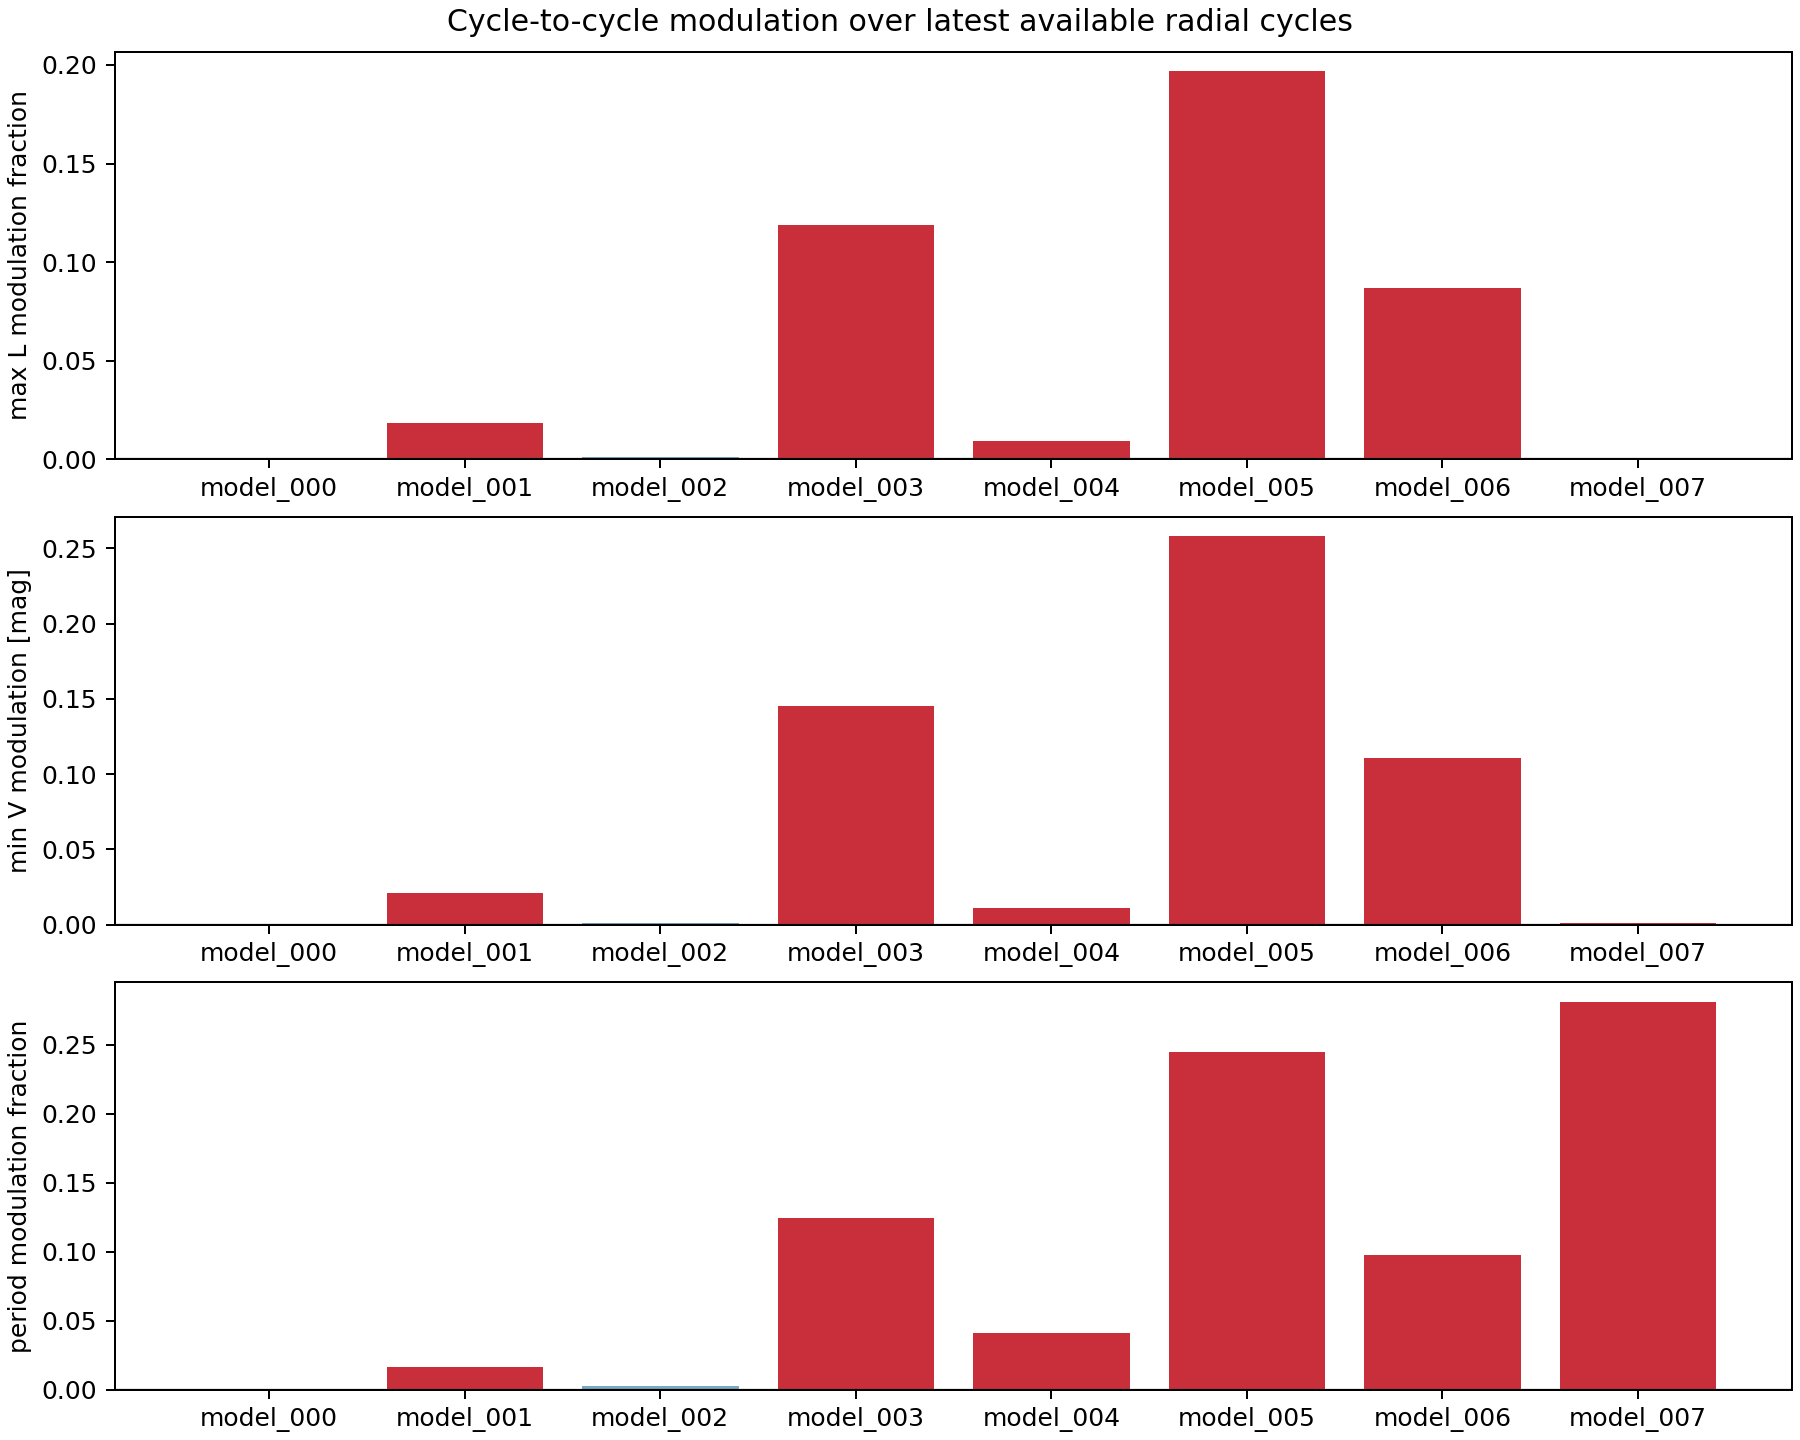
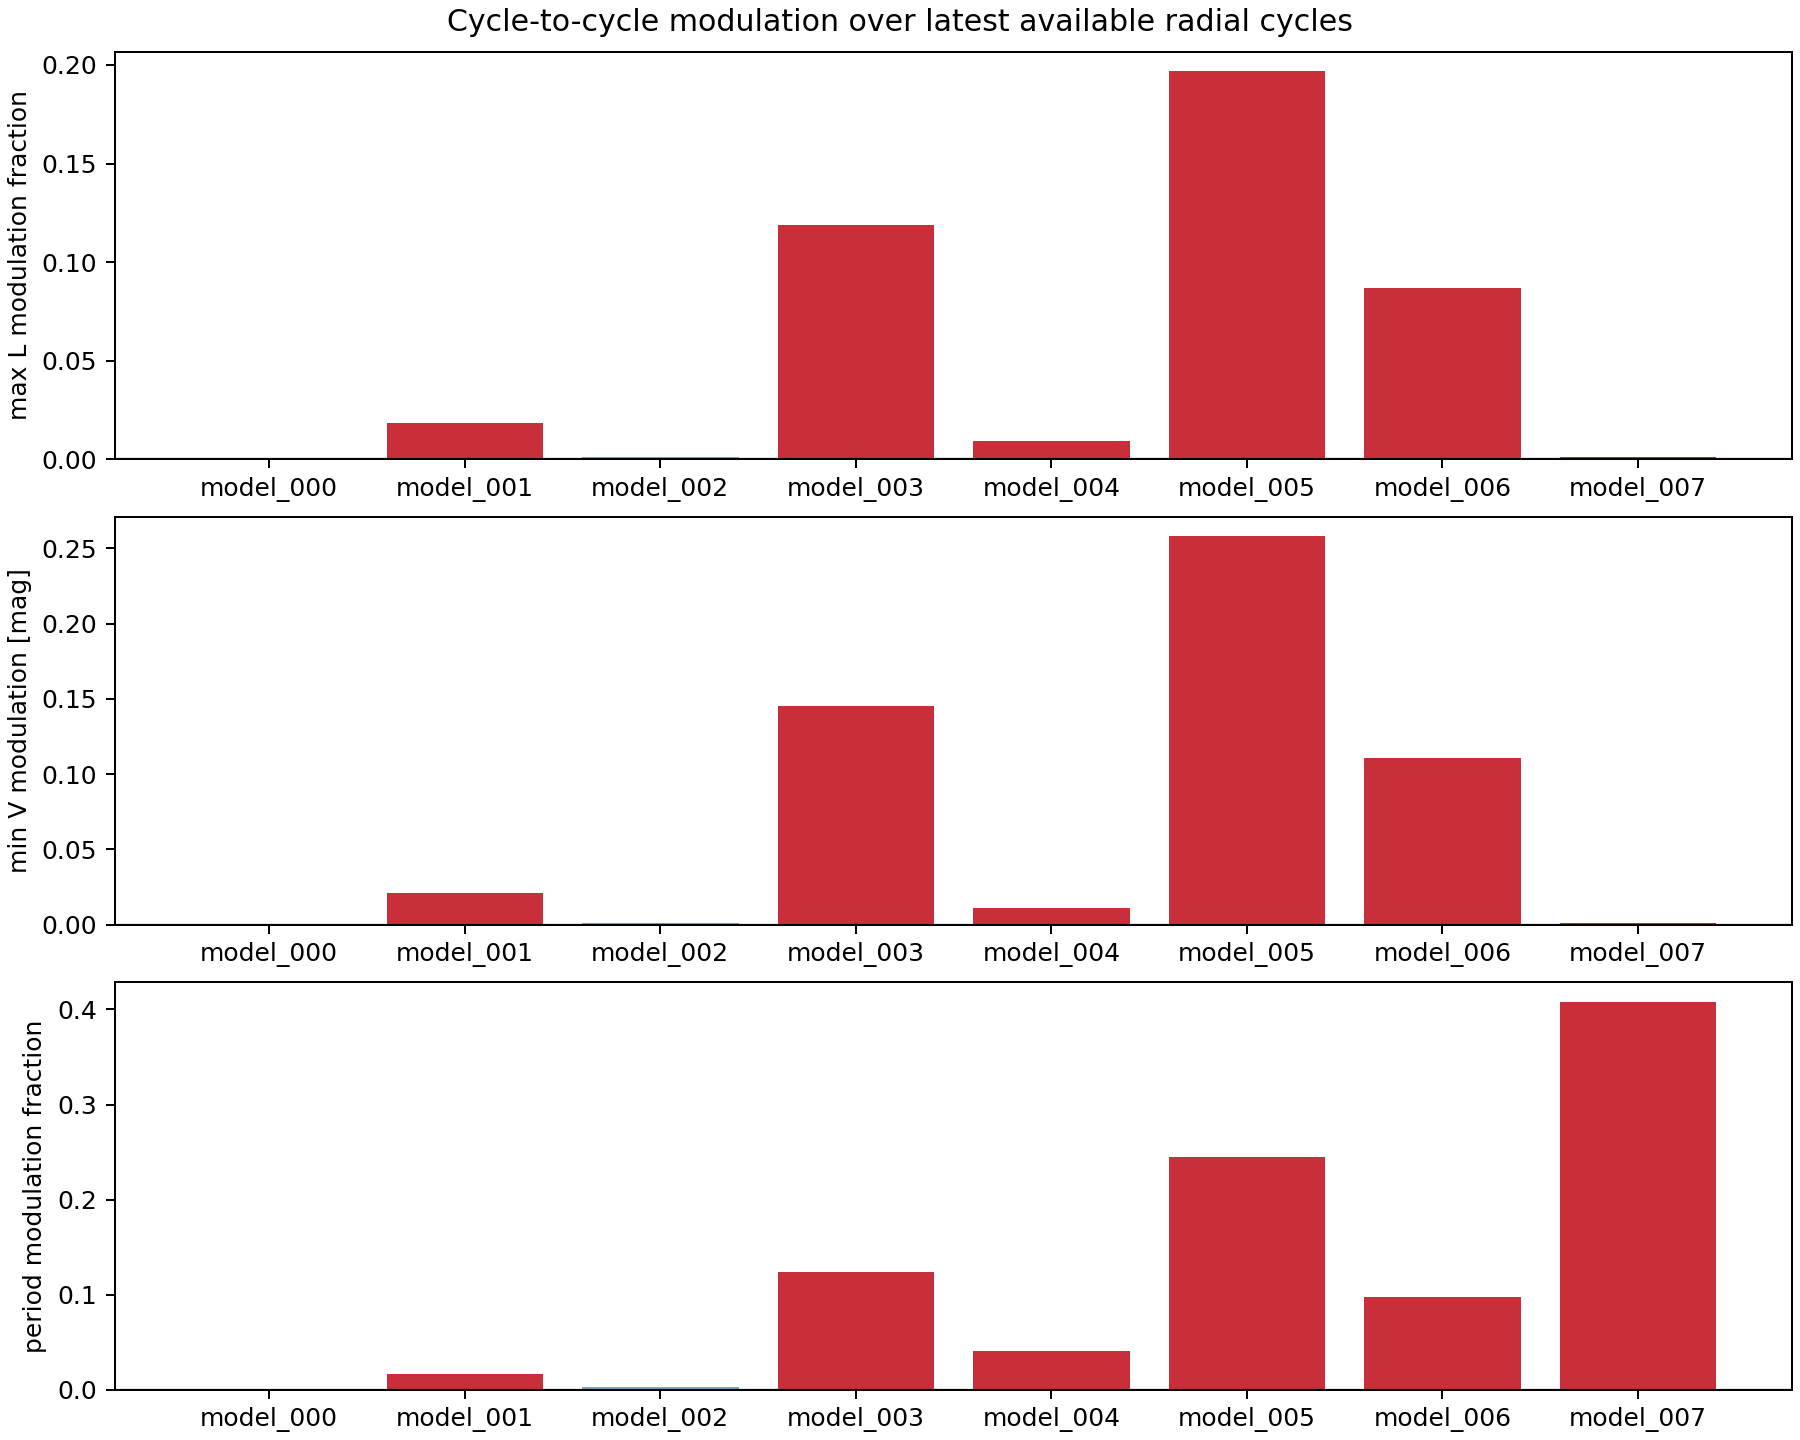
Refresh Kappa batch status

diff --git a/apps/kappa/index.html b/apps/kappa/index.html
@@ -16,6 +16,10 @@
     .toolbar { display:flex; flex-wrap:wrap; gap:12px; margin:0 0 24px; color:var(--muted); }
     a { color:#d9edf8; text-decoration:none; border-bottom:1px solid rgba(217,237,248,.38); }
     a:hover { border-bottom-color:#d9edf8; }
+    .diagnostic { margin:0 0 24px; padding:16px; background:var(--panel); border:1px solid var(--line); border-radius:8px; }
+    .diagnostic h2 { margin:0 0 12px; font-size:24px; }
+    .diagnostic a { display:block; border:0; }
+    .diagnostic img { width:100%; height:auto; border-radius:6px; background:#fff; }
     .grid { display:grid; grid-template-columns: repeat(auto-fit, minmax(480px, 1fr)); gap:22px; align-items:start; }
     .card { background:var(--panel); border:1px solid var(--line); border-radius:8px; overflow:hidden; }
     .card-head { display:flex; justify-content:space-between; gap:16px; align-items:start; padding:16px 18px 12px; background:var(--panel2); border-bottom:1px solid var(--line); }
@@ -42,10 +46,16 @@
   <header>
     <h1>Kappa</h1>
     <p class="dek">RR Lyrae RSP animations for following pressure-volume work, gas heating, ionization structure, radius, temperature, luminosity, and radial velocity through pulsation phase.</p>
-    <p class="meta">Generated 2026-06-17T03:39:56+00:00. Completed GIFs: 4/10. Verified: 4/10.</p>
+    <p class="meta">Generated 2026-06-17T03:47:32+00:00. Completed GIFs: 4/10. Verified: 4/10.</p>
   </header>
   <main>
-    <nav class="toolbar"><a href="metadata/live_status.json">live status</a> <a href="metadata/batch_audit_summary.json">audit</a> <a href="metadata/manifest.json">manifest</a> <a href="metadata/cycle_modulation_summary.json">cycle modulation</a> <a href="metadata/convergence_summary_last100.json">convergence</a> <a href="metadata/models.csv">models CSV</a></nav>
+    <nav class="toolbar"><a href="metadata/live_status.json">live status</a> <a href="metadata/batch_audit_summary.json">audit</a> <a href="metadata/manifest.json">manifest</a> <a href="metadata/cycle_modulation_summary.json">cycle modulation</a> <a href="metadata/convergence_summary_last100.json">convergence</a> <a href="metadata/convergence_summary_last100.png">convergence plot</a> <a href="metadata/models.csv">models CSV</a></nav>
+
+    <section class="diagnostic">
+      <h2>Limit-Cycle Convergence</h2>
+      <a href="metadata/convergence_summary_last100.png"><img src="metadata/convergence_summary_last100.png" alt="Strict limit-cycle convergence summary"></a>
+    </section>
+
     <section class="grid">
 
       <article class="card">
@@ -178,7 +188,7 @@
         <div class="media placeholder">queued</div>
         <div class="body">
           <p class="params">M=0.6887 M_sun &nbsp; Teff=6669 K &nbsp; L=50.79 L_sun &nbsp; Z=0.00406</p>
-          <p class="details">period 404 / 600 | strict convergence pending | period_log_fallback | 389 cycles | Gamma not recorded | P frac 0.0373 | DeltaR frac 0.348 </p>
+          <p class="details">period 456 / 600 | strict convergence pending | period_log_fallback | 465 cycles | Gamma not recorded | P frac 0.0354 | DeltaR frac 0.328 </p>
           <p class="links"><span class="muted">awaiting render</span></p>
         </div>
       </article>